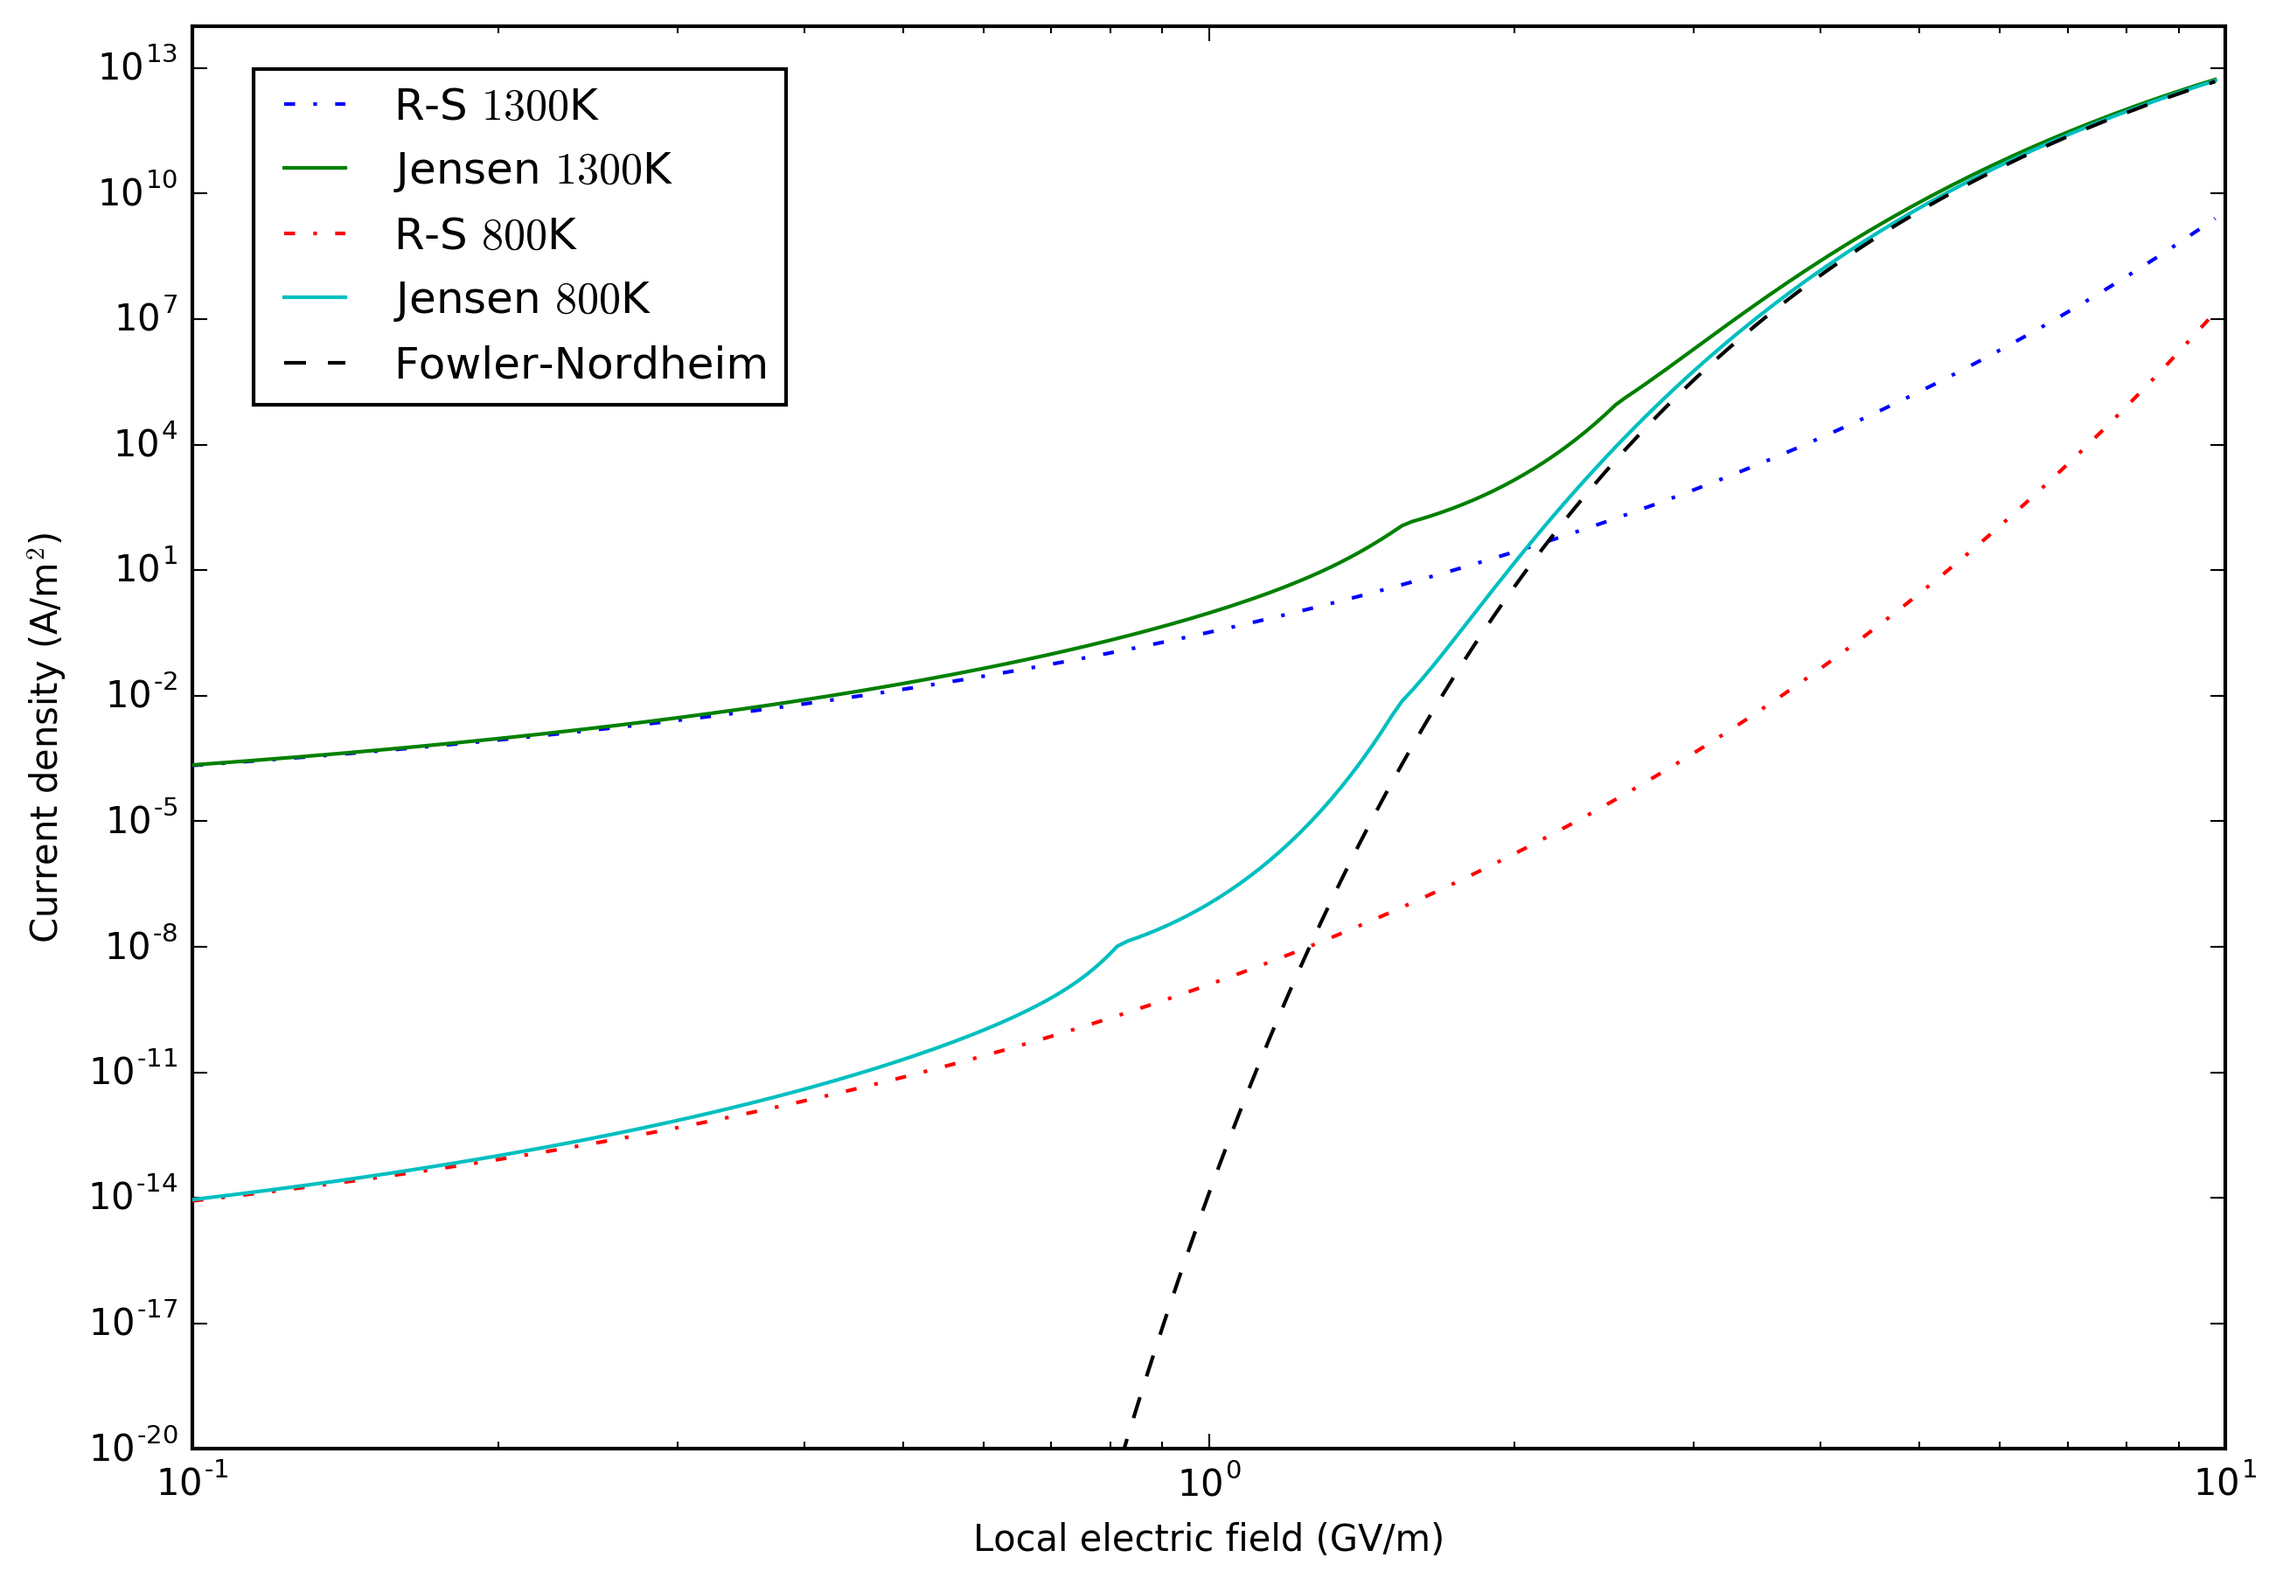
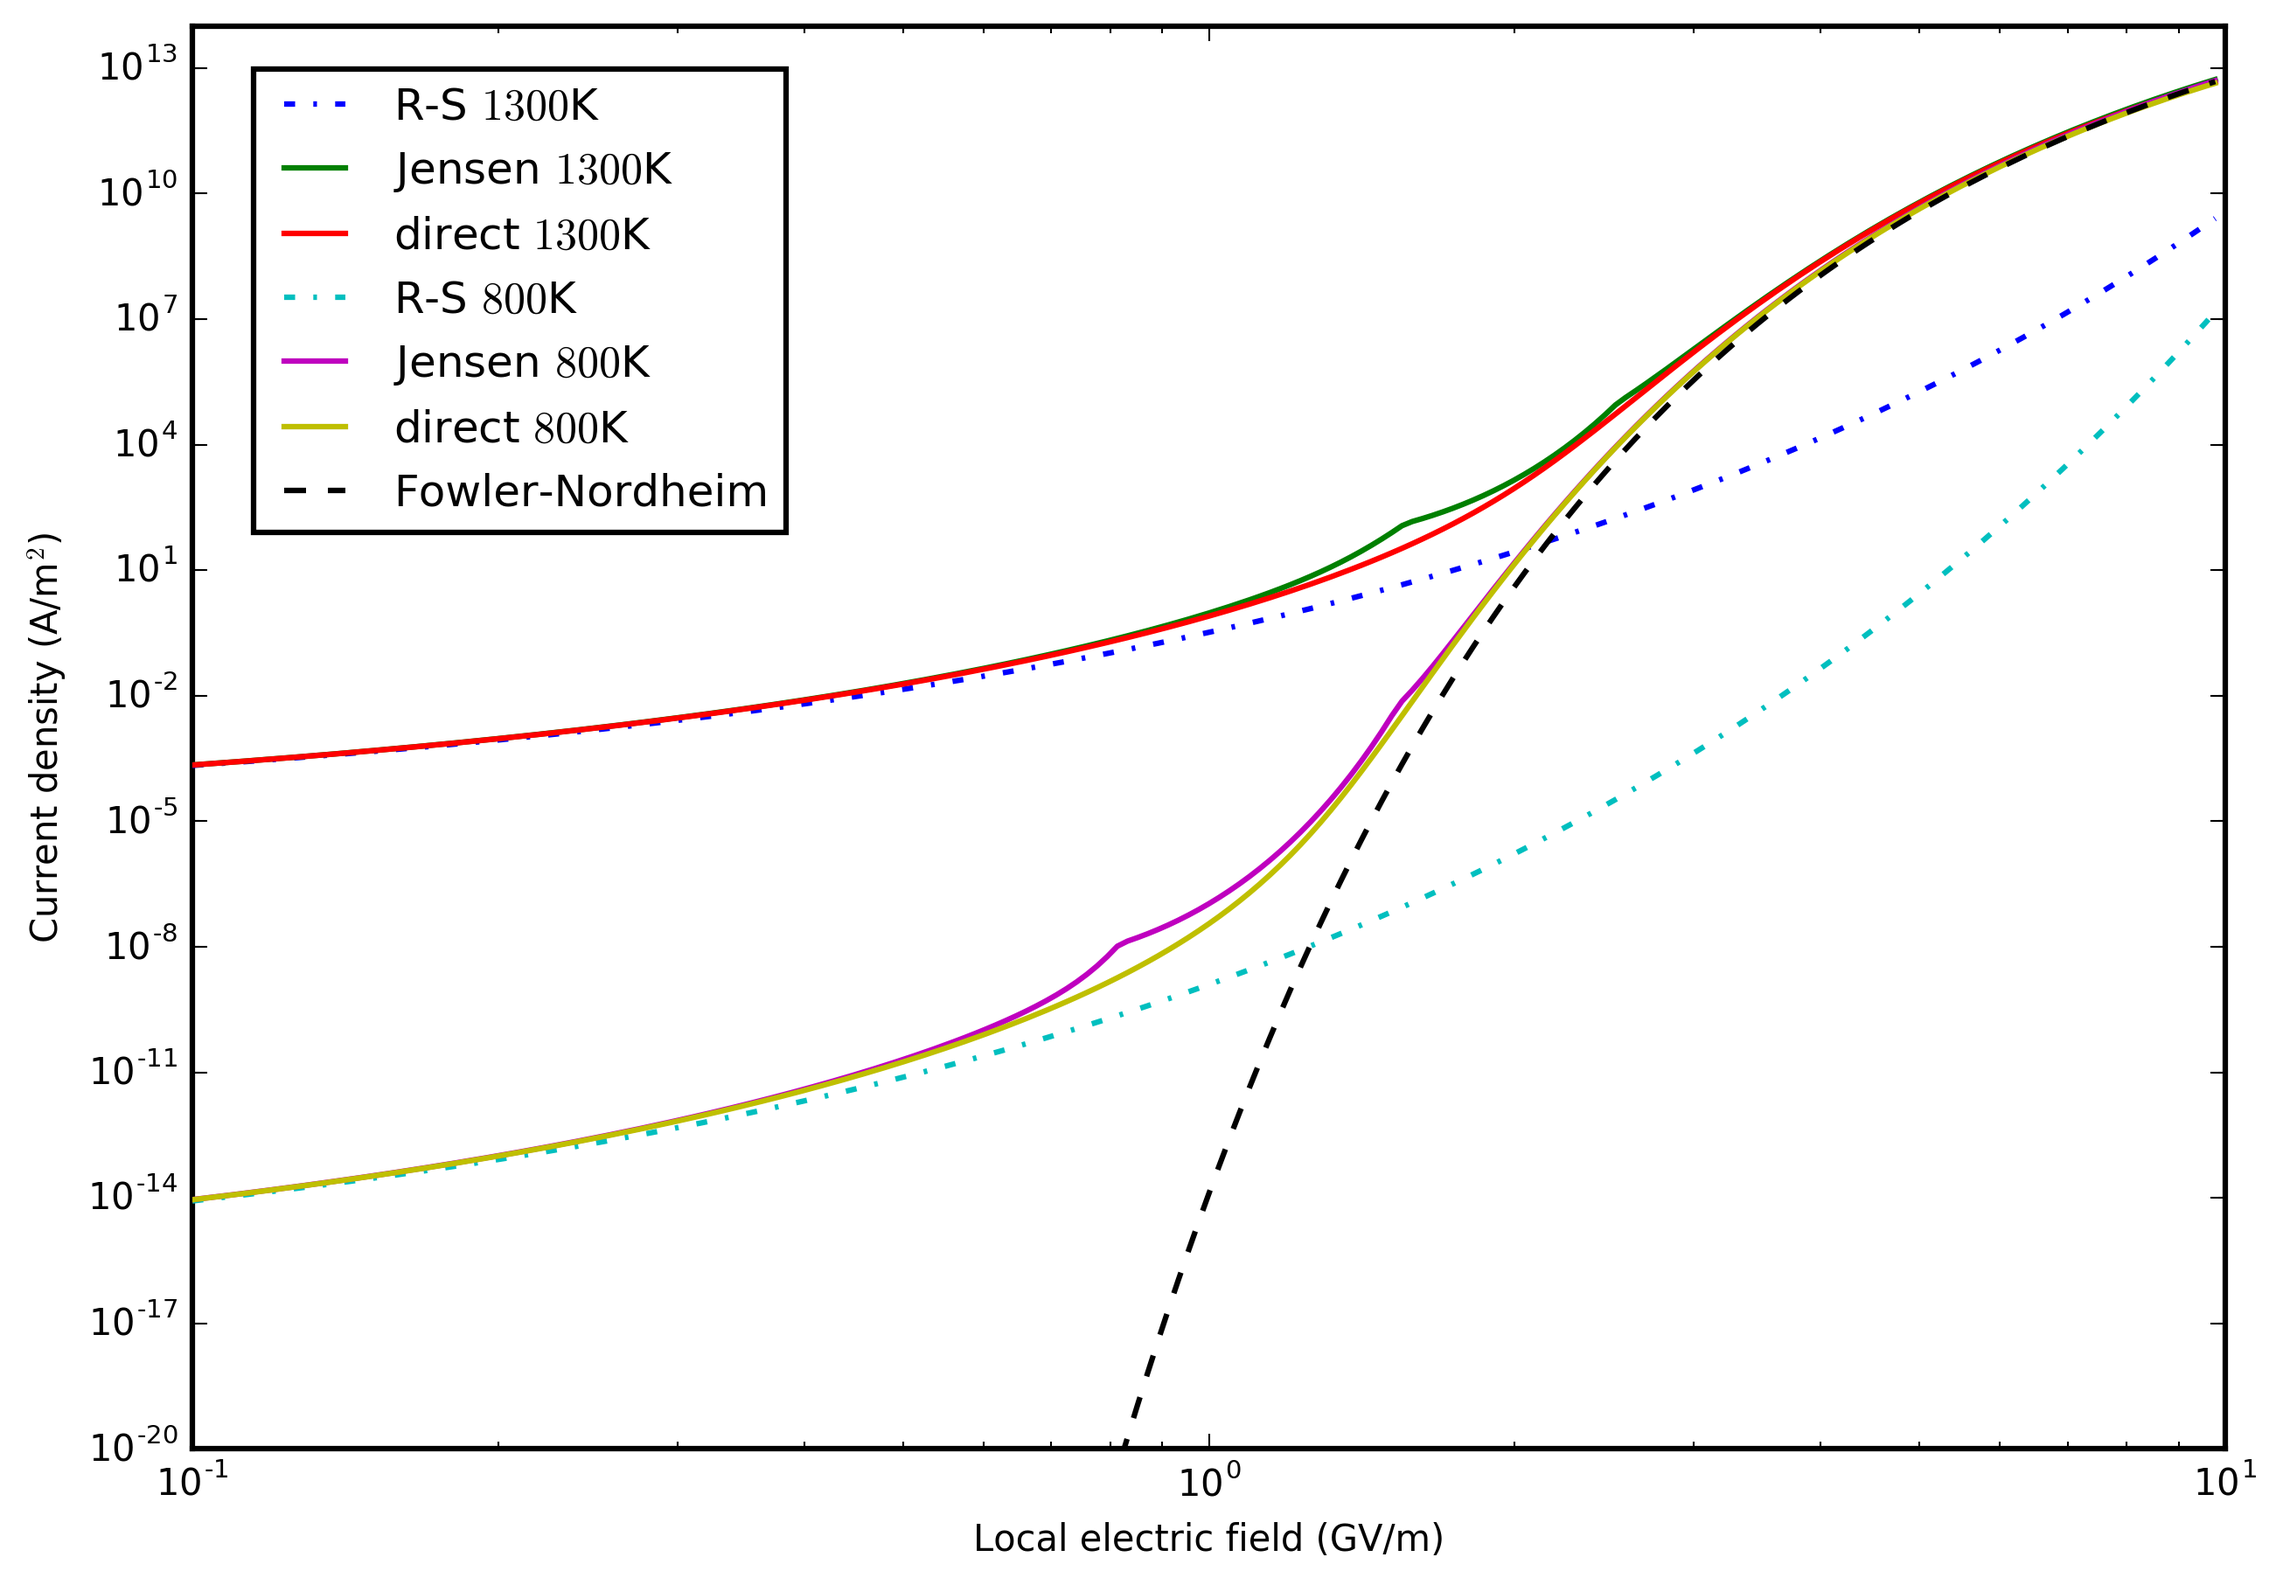
Added direct current and nottingham evaluation

diff --git a/emission_modules/direct_current_nottingham.py b/emission_modules/direct_current_nottingham.py
@@ -1,0 +1,152 @@
+import scipy as sp
+import scipy.constants
+import scipy.integrate
+import matplotlib
+import matplotlib.pyplot as plt
+import numpy as np
+import time
+
+# CONSTANTS #
+kb = sp.constants.value("Boltzmann constant in eV/K") # unit: eV/K
+qe = sp.constants.value("elementary charge") # unit: C
+me = sp.constants.value("electron mass")/qe*1e-18 #unit: eV*s^2/nm^2 NB: COPPER EFFECTIVE MASS is 1.01*
+hp = sp.constants.value("Planck constant in eV s") #unit: eV*s
+hbar = hp/(2*sp.pi) #unit: eV*s
+eps0 = sp.constants.value("electric constant")*qe*1e-9 #unit: C^2/(eV*nm)
+arld = 4*sp.pi*me*kb**2*qe/hp**3 #unit: C/(K^2*s*nm^2)
+phi_cu = 4.5 #unit: eV
+mu_cu = 7.0 #unit: eV
+
+z_sommer = qe*me/(2*np.pi**2*hbar**3) # units: C/(s*eV^2*nm^2)
+
+# Gauss quadrature
+gauss_quad_x = [[-np.sqrt(1/3), np.sqrt(1/3)],
+                [-np.sqrt(3/5), 0, np.sqrt(3/5)],
+                [-np.sqrt(3/7+2/7*np.sqrt(6/5)), -np.sqrt(3/7-2/7*np.sqrt(6/5)), np.sqrt(3/7-2/7*np.sqrt(6/5)), np.sqrt(3/7+2/7*np.sqrt(6/5))]]
+gauss_quad_w = [[1, 1],
+                [5/9, 8/9, 5/9],
+                [(18-np.sqrt(30))/36, (18+np.sqrt(30))/36, (18+np.sqrt(30))/36, (18-np.sqrt(30))/36]]
+
+
+# ## Supply function
+# The reference energy (the zero energy) is the bottom of the conduction band.
+#
+# The supply function is the following:
+# \begin{equation}
+#     N(U,T)= \frac{4 \pi m_e k_B T}{h_P^3} \ln \left( 1+\exp \left(-\frac{U-\mu}{k_B T}\right) \right)
+# \end{equation}
+
+def supply(U, T):
+    # Unit: 1/(nm^2*eV*s)
+    return 4*sp.pi*me*kb*T/hp**3*sp.log1p(sp.exp(np.min([-(U-mu_cu)/(kb*T), 700.0])))
+
+
+# ## Tunnelling probability
+
+# equation (14) from M&G
+def elliptic_k(k):
+    return sp.integrate.quad(lambda x: (1-k**2*sp.sin(x)**2)**(-0.5), 0, sp.pi/2)[0]
+def elliptic_e(k):
+    return sp.integrate.quad(lambda x: (1-k**2*sp.sin(x)**2)**(0.5), 0, sp.pi/2)[0]
+
+def nu(y):
+    if y > 1:
+        # eq. (15)
+        return -sp.sqrt(y/2)*(-2*elliptic_e(sp.sqrt(y-1)/sp.sqrt(2*y))+(y+1)*elliptic_k(sp.sqrt(y-1)/sp.sqrt(2*y)))
+    else:
+        # eq. (16)
+        return sp.sqrt(1+y)*(elliptic_e(sp.sqrt(1-y)/sp.sqrt(1+y))-y*elliptic_k(sp.sqrt(1-y)/sp.sqrt(1+y)))
+
+# Forbes approximation (from Jensen 2007)
+def nu_approx(y):
+    return 1-y**2+1.0/3*y**2*sp.log(y)
+
+# Murpy and Good tunnelling probability: eq. (17) and (18)
+def tunnel(U, F, phi):
+    u_lim = mu_cu+phi-sp.sqrt(2)/2*sp.sqrt(qe**2*F/(4*sp.pi*eps0))
+    if U >= u_lim:
+        return 1.0
+    y = sp.sqrt(qe**2*F/(4*sp.pi*eps0))/abs(U-mu_cu-phi)
+    inter = 4.0/(3*hbar*F)*sp.sqrt(2*me*abs(U-mu_cu-phi)**3)*nu_approx(y)
+    # to suppress the overflow warnings #
+    if inter > 150:
+        return sp.exp(-inter)
+    return (1+sp.exp(inter))**(-1)
+
+
+# ## Current density
+
+# units:
+# in: F (V/nm), T (K), phi (eV)
+# out: A/m^2
+
+def j_python(F, T, phi):
+    ppoint = mu_cu+phi; # main problem point
+    rel_points = np.array([0.01, 0.02, 0.05, 0.1])
+    problem_points = np.append([ppoint + rel_points, ppoint - rel_points], [mu_cu, ppoint])
+    return qe*sp.integrate.quad(lambda u: supply(u,T)*tunnel(u, F, phi), 0, 20, points=problem_points, epsrel=1e-4, epsabs=0)[0]*1e18
+
+def j_gauss(F, T, phi):
+    gauss_rank = 2
+    e_regs = [0.0, mu_cu-1.0, mu_cu+phi-0.1, mu_cu+phi+0.2, 20.0]
+    n_regs = [16, 64, 64, 16]
+    j_accumulation = 0.0
+    for i in range(len(n_regs)):
+        e_min = e_regs[i]
+        e_max = e_regs[i+1]
+        de = (e_max-e_min)/(n_regs[i]-1)
+        for i in range(n_regs[i]-1):
+            e1 = e_min + i*de
+            e2 = e_min + (i+1)*de
+            gauss_acc = 0.0
+            for gi in range(len(gauss_quad_x[gauss_rank])):
+                arg = (e2-e1)/2*gauss_quad_x[gauss_rank][gi]+(e2+e1)/2
+                gauss_acc += gauss_quad_w[gauss_rank][gi]*qe*supply(arg,T)*tunnel(arg, F, phi)
+            j_accumulation += (e2-e1)/2*gauss_acc
+    return j_accumulation*1e18
+
+def j(F, T, phi):
+    return j_gauss(F, T, phi)
+
+# ## Nottingham
+
+# regarding units: as the integration gives the result in eV, the additional coefficient 1/qe can be dropped
+# to convert the result from eV/(s*nm^2) to W/nm^2
+# units:
+# in: F (V/nm), T (K), phi (eV)
+# out: W/m^2
+
+def heat_flux_gauss(F, T, phi):
+    gauss_rank = 2
+    e_min = 0.0
+    e_max = 20.0
+    n_div = 256
+    de = (e_max-e_min)/(n_div-1)
+    hf_accumulation = 0.0
+    inner_accumulation = 0.0
+    e2_inner = e_min
+    for i in range(n_div-1):
+        e1 = e_min + i*de
+        e2 = e_min + (i+1)*de
+        e1_inner = e2_inner
+        e2_inner = (e1+e2)/2
+        # Inner integration update
+        inner_gauss_acc = 0.0
+        for gi in range(len(gauss_quad_x[gauss_rank])):
+            arg = (e2_inner-e1_inner)/2*gauss_quad_x[gauss_rank][gi]+(e2_inner+e1_inner)/2
+            inner_gauss_acc += gauss_quad_w[gauss_rank][gi]*tunnel(arg, F, phi)
+        inner_accumulation += (e2_inner-e1_inner)/2*inner_gauss_acc
+
+        # outer integration
+        gauss_acc = 0.0
+        for gi in range(len(gauss_quad_x[gauss_rank])):
+            arg = (e2-e1)/2*gauss_quad_x[gauss_rank][gi]+(e2+e1)/2
+            gauss_acc += gauss_quad_w[gauss_rank][gi]*z_sommer*(arg-mu_cu)/(1+np.exp(np.min([(arg-mu_cu)/(kb*T), 700.0])))*inner_accumulation
+        hf_accumulation += (e2-e1)/2*gauss_acc
+    return hf_accumulation*1e18
+
+def heat_flux(F, T, phi):
+    return heat_flux_gauss(F, T, phi)
+
+def deltaE(F, T, phi):
+    return heat_flux_gauss(F, T, phi)/j_gauss(F, T, phi)
